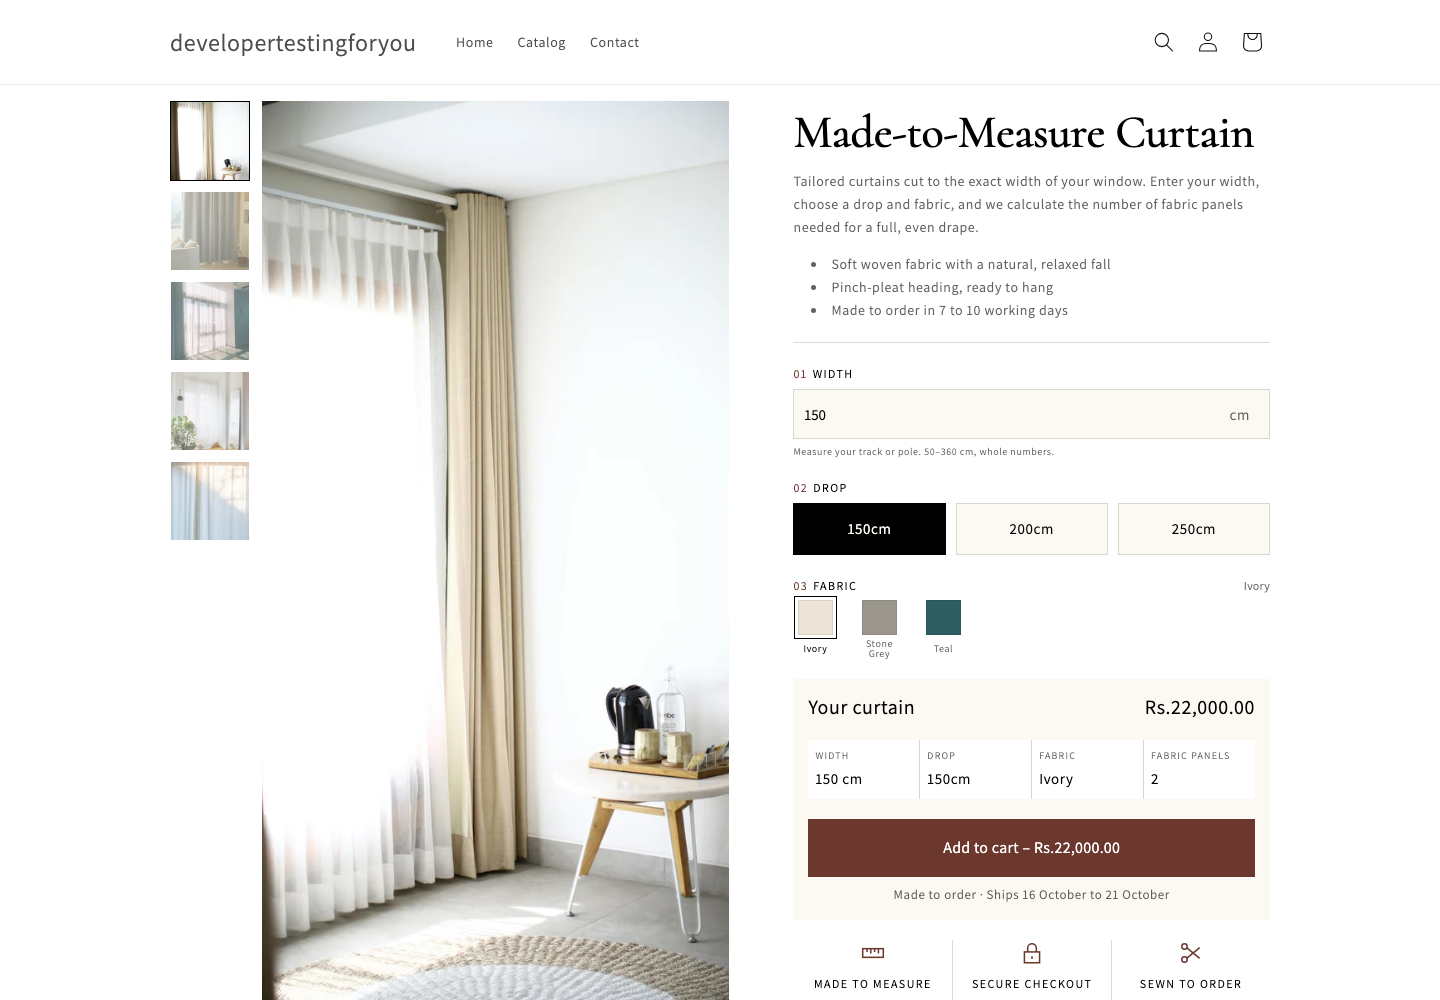
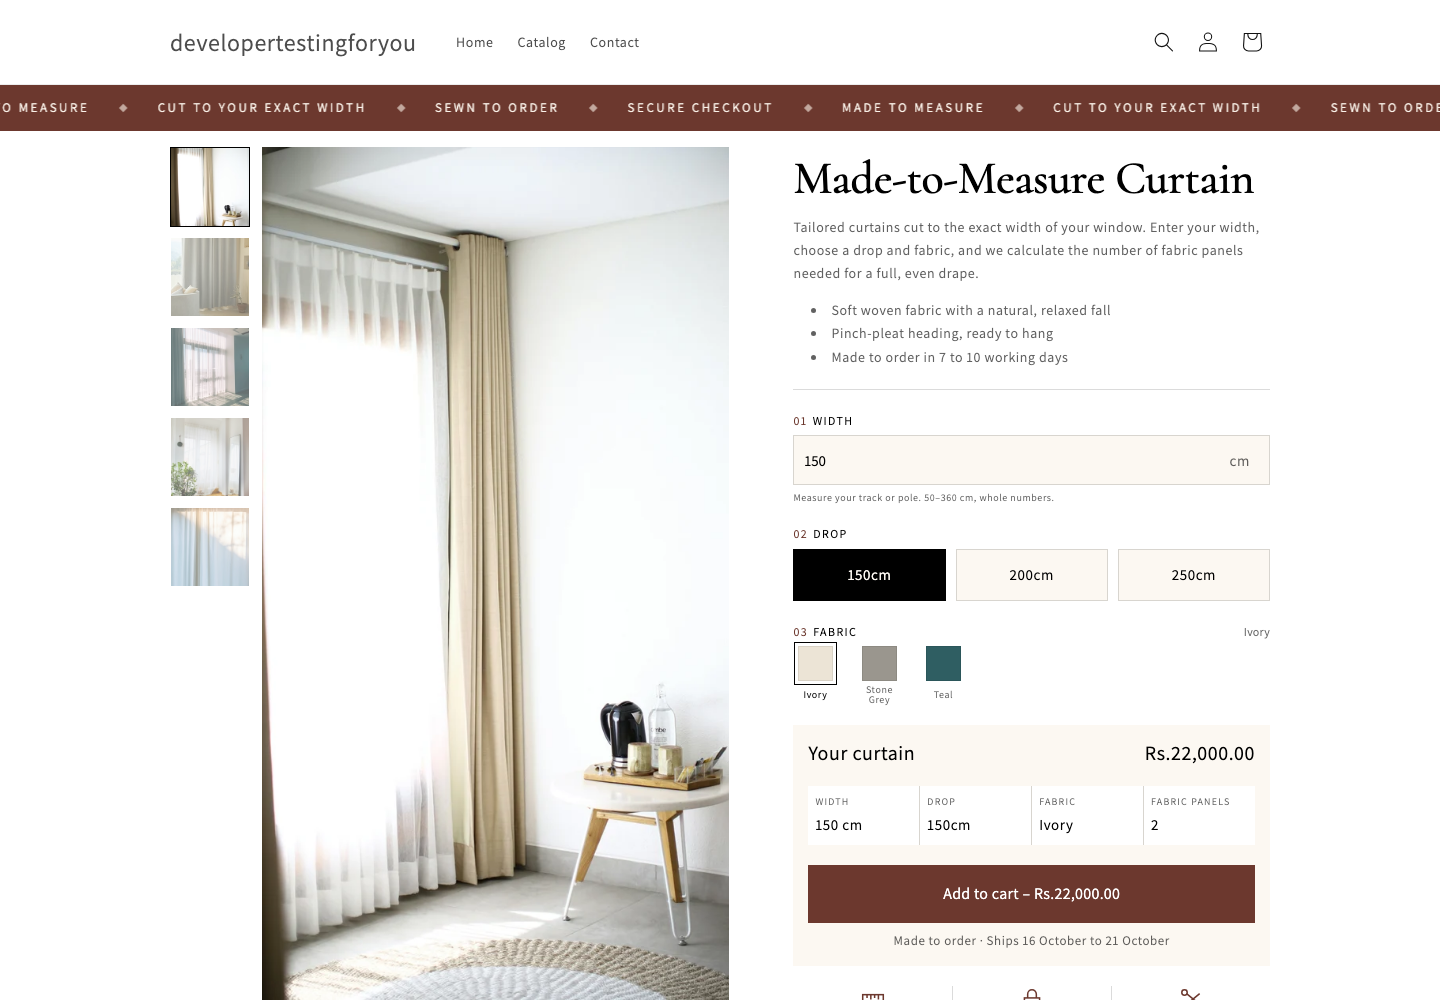
Add a marquee section above the curtain configurator
The full-height gallery now measures everything above its section, so the
marquee doesn't push the main image past the bottom of the screen.

diff --git a/assets/curtain-configurator.js b/assets/curtain-configurator.js
@@ -16,11 +16,6 @@ const addDays = (days, workingDaysOnly) => {
   return date;
 };
 
-const setHeaderHeight = () =>
-  document.documentElement.style.setProperty(
-    '--cc-header-height',
-    `${document.getElementById('MainContent')?.offsetTop || 0}px`
-  );
 
 const formatDay = (date) =>
   `${date.getDate()} ${date.toLocaleDateString(document.documentElement.lang || undefined, { month: 'long' })}`;
@@ -30,7 +25,11 @@ class CurtainConfigurator extends HTMLElement {
     this.querySelectorAll('[data-media-target]').forEach((thumb) =>
       thumb.addEventListener('click', () => this.showMedia(thumb.dataset.mediaTarget))
     );
-    window.addEventListener('resize', setHeaderHeight);
+    this.section = this.closest('.shopify-section');
+    this.onResize = () =>
+      this.section.style.setProperty('--cc-offset-top', `${this.section.getBoundingClientRect().top + window.scrollY}px`);
+    this.onResize();
+    window.addEventListener('resize', this.onResize);
 
     this.rows = [...this.querySelectorAll('.cc__row')];
     this.rows.forEach((row) =>
@@ -80,6 +79,10 @@ class CurtainConfigurator extends HTMLElement {
     const start = addDays(Number(minDays), workingDaysOnly);
     const end = addDays(Math.max(Number(minDays), Number(maxDays)), workingDaysOnly);
     note.textContent = deliveryNote.replace('[start]', formatDay(start)).replace('[end]', formatDay(end));
+  }
+
+  disconnectedCallback() {
+    window.removeEventListener('resize', this.onResize);
   }
 
   // Animates the row's height. The details element stays open until the closing animation ends.

diff --git a/assets/section-marquee.css b/assets/section-marquee.css
@@ -1,0 +1,74 @@
+.marquee {
+  display: flex;
+  overflow: hidden;
+  padding: var(--marquee-padding) 0;
+  background: var(--marquee-bg);
+  color: var(--marquee-text);
+}
+
+.marquee__group {
+  display: flex;
+  flex: none;
+  align-items: center;
+  justify-content: space-around;
+  min-width: 100%;
+  margin: 0;
+  padding: 0;
+  list-style: none;
+  animation: marquee-scroll var(--marquee-speed) linear infinite;
+}
+
+.marquee--reverse .marquee__group {
+  animation-direction: reverse;
+}
+
+.marquee--pause:hover .marquee__group {
+  animation-play-state: paused;
+}
+
+.marquee__item {
+  display: flex;
+  align-items: center;
+  font-size: var(--marquee-size);
+  line-height: 1.4;
+  letter-spacing: 0.08em;
+  white-space: nowrap;
+}
+
+.marquee--uppercase .marquee__item {
+  letter-spacing: 0.2em;
+  text-transform: uppercase;
+}
+
+/* Small diamond between items. Equal margins keep the spacing even where the groups meet. */
+.marquee__item::after {
+  content: '';
+  width: 0.45em;
+  height: 0.45em;
+  margin: 0 2.4em;
+  background: currentColor;
+  opacity: 0.6;
+  transform: rotate(45deg);
+}
+
+.marquee__link {
+  color: inherit;
+  text-decoration: none;
+}
+
+.marquee__link:hover {
+  text-decoration: underline;
+  text-underline-offset: 0.3em;
+}
+
+@keyframes marquee-scroll {
+  to {
+    transform: translateX(-100%);
+  }
+}
+
+@media (prefers-reduced-motion: reduce) {
+  .marquee__group {
+    animation-play-state: paused;
+  }
+}

diff --git a/assets/curtain-configurator.css b/assets/curtain-configurator.css
@@ -37,10 +37,10 @@
   grid-template-columns: 8rem minmax(0, 1fr);
 }
 
-/* Fill the first screen below the header and the section's top padding. */
+/* Fill the first screen below everything above this section and its top padding. */
 .cc__stage {
   position: relative;
-  height: calc(100vh - var(--cc-header-height, 0px) - var(--cc-pad-top));
+  height: calc(100vh - var(--cc-offset-top, 0px) - var(--cc-pad-top));
   overflow: hidden;
   background: var(--cc-surface);
 }

diff --git a/README.md b/README.md
@@ -13,9 +13,10 @@ All pricing data lives in a metaobject. The theme code contains no width ranges 
 | `sections/curtain-configurator.liquid` | The section: gallery, inputs, summary card, and the JSON config read from the metafield |
 | `snippets/curtain-swatch.liquid` | One fabric swatch radio, used by swatch blocks and by the fallback |
 | `snippets/curtain-trust-icon.liquid` | Line icons for the trust badges |
+| `sections/marquee.liquid` and `assets/section-marquee.css` | Scrolling text strip, used above the configurator and available on any template |
 | `assets/curtain-configurator.js` | The `<curtain-configurator>` custom element (vanilla ES2020, no libraries) |
 | `assets/curtain-configurator.css` | Styles, loaded only by this section |
-| `templates/product.curtain.json` | Product template with the configurator blocks and three collapsible rows |
+| `templates/product.curtain.json` | Product template with the marquee, the configurator blocks and three collapsible rows |
 | `schema/curtain-pricing-tier.json` | Export of the metaobject definition, its entries and the product metafield definition |
 | `schema/example-cart-add-payload.json` | The exact request body sent to `/cart/add.js` |
 | `schema/example-cart-line.json` | The resulting cart line, read back from `/cart.js` |
@@ -196,7 +197,7 @@ Dawn already hides underscore properties in both cart templates, so no change wa
 
 ## Zero layout shift
 
-- **Fixed media box.** On desktop the main image height is the screen height minus everything above the page content. A small inline script measures that before the gallery renders, so the image never resizes after load. On tablet and mobile the gallery uses a fixed aspect ratio. Every image has width and height attributes.
+- **Fixed media box.** On desktop the main image height is the screen height minus everything above the section, including the header and the marquee. A small inline script measures that before the gallery renders, so the image never resizes after load. On tablet and mobile the gallery uses a fixed aspect ratio. Every image has width and height attributes.
 - **Reserved message slot.** The hint and the validation error share one grid cell. Errors toggle visibility instead of being inserted.
 - **Stable text boxes.** The price, the summary values and the button label sit in boxes that don't change size when their text changes. Numbers use tabular figures.
 - **Reserved note height.** The delivery note keeps room for its text before the script fills in the dates, two lines on mobile.
@@ -246,9 +247,11 @@ The step numbers 01, 02 and 03 come from a CSS counter, so they follow the block
 
 The section only appears on product templates. It shows a setup notice in the editor if the metafield or the options are missing.
 
+**Marquee.** A separate section that scrolls its text blocks in a continuous loop, with a small diamond between items. Settings cover speed, direction, pause on hover, text size, uppercase, colors and padding, and each text block can have a link. It uses CSS animation only, pauses for visitors who prefer reduced motion, and hides its duplicate copy from screen readers. It can be added to any template from the theme editor.
+
 ## Testing
 
-`tests/e2e/run.mjs` runs 50 checks against a live preview:
+`tests/e2e/run.mjs` runs 51 checks against a live preview:
 
 - **Rendering:** no Panels control on the page, and no Dawn product form.
 - **Pricing:** price and panel count at every tier boundary, from 50 to 360 cm.
@@ -258,6 +261,7 @@ The section only appears on product templates. It shows a setup notice in the ed
 - **Layout:** thumbnails to the left of the main image, the main image filling the screen below the header, three collapsible rows under the button, zero layout shift, and no horizontal overflow at tablet and mobile widths.
 - **Interaction:** rows start closed and only one opens at a time, and the button curtain covers the button on hover.
 - **Trust badges:** three badges sit between the add to cart card and the rows.
+- **Marquee:** it sits above the configurator, animates, and is wide enough to loop without a gap.
 - **Cart:** the exact `/cart/add.js` payload, the drawer contents, the cart page contents, and the cart line read back from `/cart.js`.
 - **Errors:** a simulated 422 response and a simulated network failure.
 
